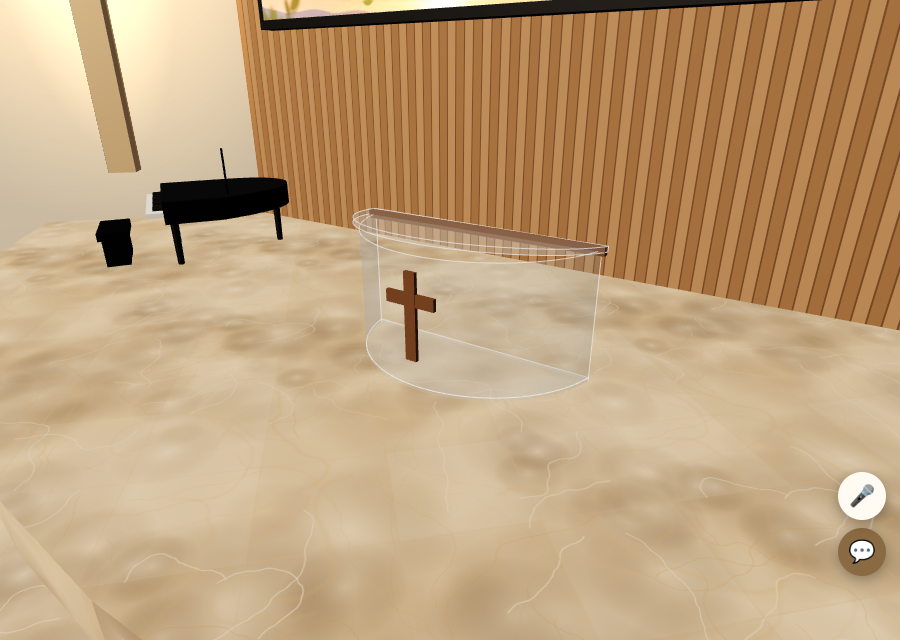
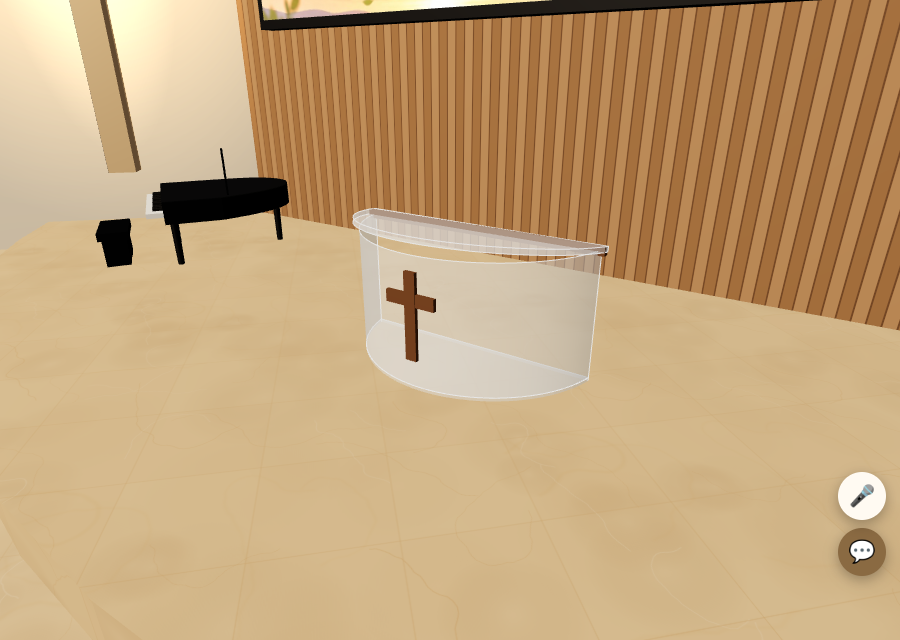
Frosted semi-transparent acrylic pulpit
Claude-Session: https://claude.ai/code/session_01Vz1QJf3UdmpjXu7m5EnhFF

diff --git a/index.html b/index.html
@@ -1823,8 +1823,8 @@
       pulpit.updateWorldMatrix(true, false); pulpit.geometry.computeBoundingBox();
       const wb = pulpit.geometry.boundingBox.clone().applyMatrix4(pulpit.matrixWorld), wp = new THREE.Vector3(); pulpit.getWorldPosition(wp);
       const P = new THREE.Group(); P.position.set(wp.x, wb.min.y, wp.z); P.rotation.y = pulpit.rotation.y; g.add(P);   // 앞(+z)이 회중 쪽
-      const acr = new THREE.MeshStandardMaterial({ color: 0xeef8fc, roughness: 0.05, metalness: 0.0, transparent: true, opacity: 0.22, depthWrite: false, side: THREE.DoubleSide });
-      const edge = new THREE.LineBasicMaterial({ color: 0xffffff, transparent: true, opacity: 0.75 });
+      const acr = new THREE.MeshStandardMaterial({ color: 0xf6f9fb, emissive: 0xffffff, emissiveIntensity: 0.12, roughness: 0.35, metalness: 0.0, transparent: true, opacity: 0.55, depthWrite: false, side: THREE.DoubleSide });   // 반투명(젖빛) 아크릴 — 사용자 요청: 너무 투명해서 안 보임
+      const edge = new THREE.LineBasicMaterial({ color: 0xffffff, transparent: true, opacity: 0.9 });
       const wood = new THREE.MeshStandardMaterial({ color: 0x7a5232, roughness: 0.55 });
       const part = (w, h, d, x, y, z, m, rx) => {
         const geo = new THREE.BoxGeometry(w, h, d), me = new THREE.Mesh(geo, m); me.position.set(x, y, z); if (rx) me.rotation.x = rx; P.add(me);

diff --git a/docs/verification/2026-11-05/REPORT.md b/docs/verification/2026-11-05/REPORT.md
@@ -336,3 +336,7 @@
 ## 강단 바닥 매끈하게 (사용자 요청)
 - 강단 대리석만 얼룩·굵은 결을 크게 줄이고(얼룩 30%, 결 개수 절반 이하), 윤을 조금 더(roughness 0.16). 얼룩이 빠지며 밝아진 만큼 색을 조금 짙게 해 바닥보다 한 단계 짙은 톤 유지.
 - 검사: `pulpit2.cjs stage` → `stage-hall.png`, `stage-front.png`, 오류 없음.
+
+## 강대상 반투명으로 (사용자 요청: 너무 투명해서 안 보임)
+- 아크릴 불투명도 0.22 → 0.55, 젖빛(roughness 0.35)과 은은한 흰빛을 더하고 테두리 선을 조금 진하게. 뒤의 나무 벽이 흐리게 비침.
+- 검사: `pulpit2.cjs pulpit` → `pulpit-front/side/hall.png`, 오류 없음.
